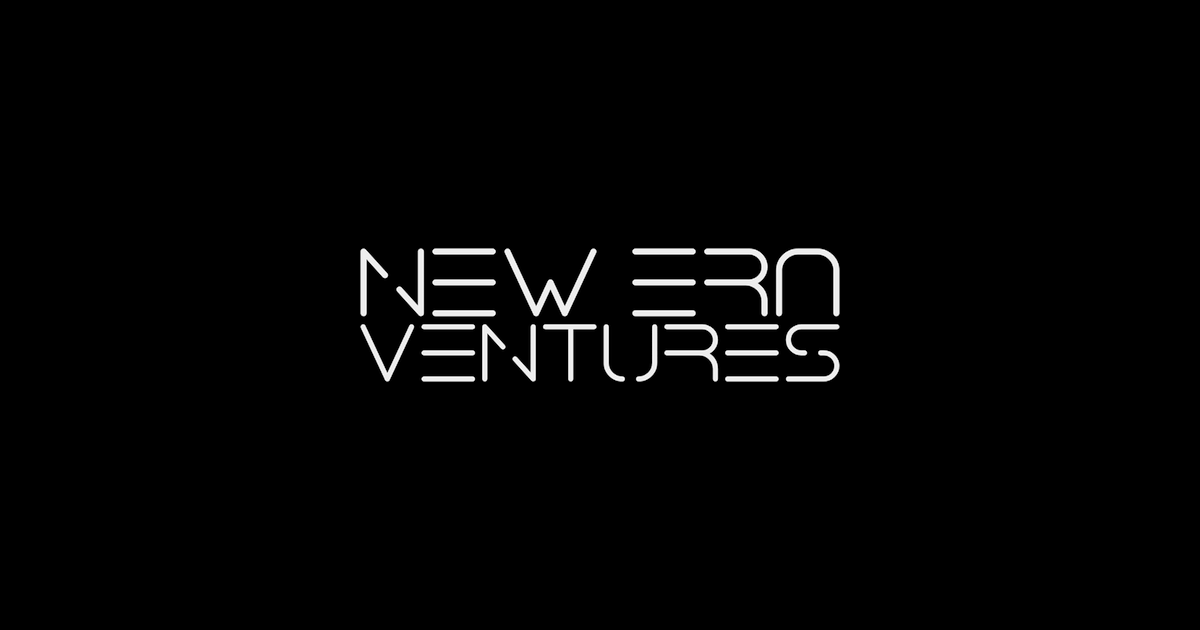
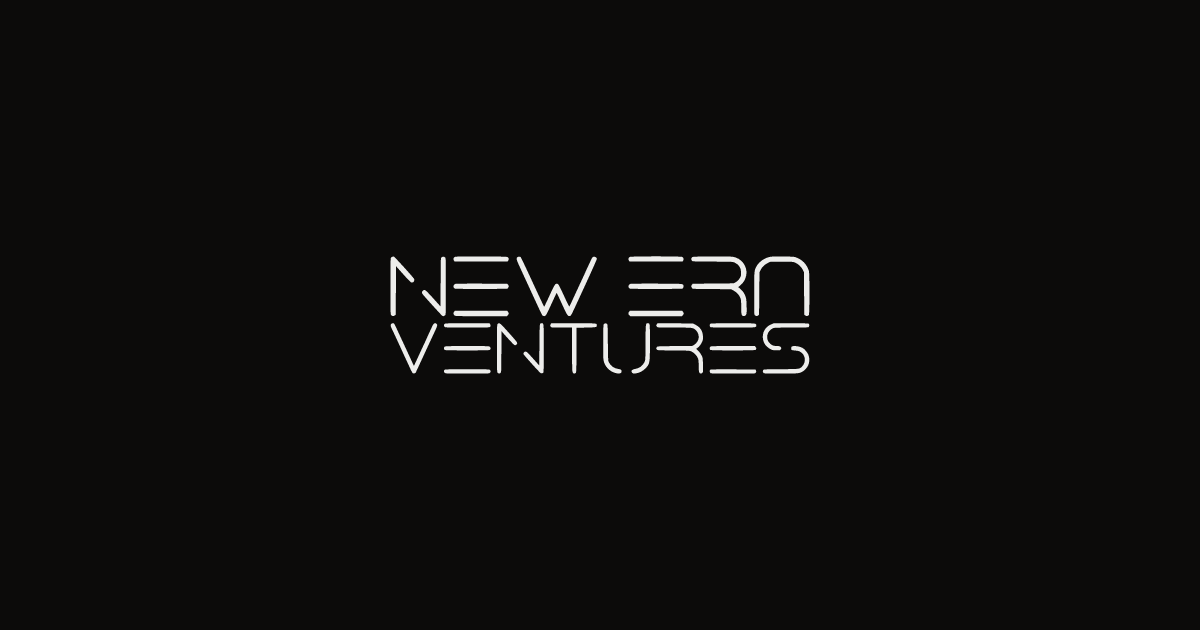
Switch wordmark to traced SVG + regenerate share card
- assets/logo.svg: cleanly traced from logo.png via potrace, 27 paths,
  uses fill="currentColor" (CSS color: var(--fg) drives the rendered tone)
- index.html: <img> now references logo.svg with explicit width/height
  for layout reservation; removed brightness/invert filter (no longer needed)
- assets/og-image.png: regenerated programmatically at 1200x630,
  wordmark centered at ~35% of canvas width on warm #0c0b0a bg
- <head>: added og:image:width, og:image:height, twitter:image with
  absolute URLs; twitter:card was already in place
- Deleted stale assets/logo.png (no remaining references)

Changed region(s): [[0.2775, 0.3921, 0.7092, 0.6333]]

diff --git a/index.html b/index.html
@@ -12,9 +12,12 @@
   <meta property="og:title" content="New Era Ventures" />
   <meta property="og:description" content="Early-stage venture firm." />
   <meta property="og:image" content="https://www.neweraventures.com/assets/og-image.png" />
+  <meta property="og:image:width" content="1200" />
+  <meta property="og:image:height" content="630" />
   <meta property="og:url" content="https://www.neweraventures.com/" />
   <meta property="og:type" content="website" />
   <meta name="twitter:card" content="summary_large_image" />
+  <meta name="twitter:image" content="https://www.neweraventures.com/assets/og-image.png" />
   <link rel="preconnect" href="https://fonts.googleapis.com" />
   <link rel="preconnect" href="https://fonts.gstatic.com" crossorigin />
   <link href="https://fonts.googleapis.com/css2?family=Space+Grotesk:wght@300;400;500&display=swap" rel="stylesheet" />
@@ -82,7 +85,8 @@
     /* ── Logo ── */
     .logo {
       width: min(45vw, 460px);
-      filter: brightness(0) invert(1);
+      height: auto;
+      color: var(--fg);              /* SVG uses currentColor — no raster filter */
       opacity: 0;
       animation: fadeUp 700ms cubic-bezier(0.22, 1, 0.36, 1) 80ms forwards;
     }
@@ -172,7 +176,7 @@
   <div class="grain"></div>
 
   <main class="page">
-    <img class="logo" src="assets/logo.png" alt="New Era Ventures" />
+    <img class="logo" src="assets/logo.svg" width="460" height="129" alt="New Era Ventures" />
 
     <nav>
       <a href="/portfolio">Portfolio</a>
